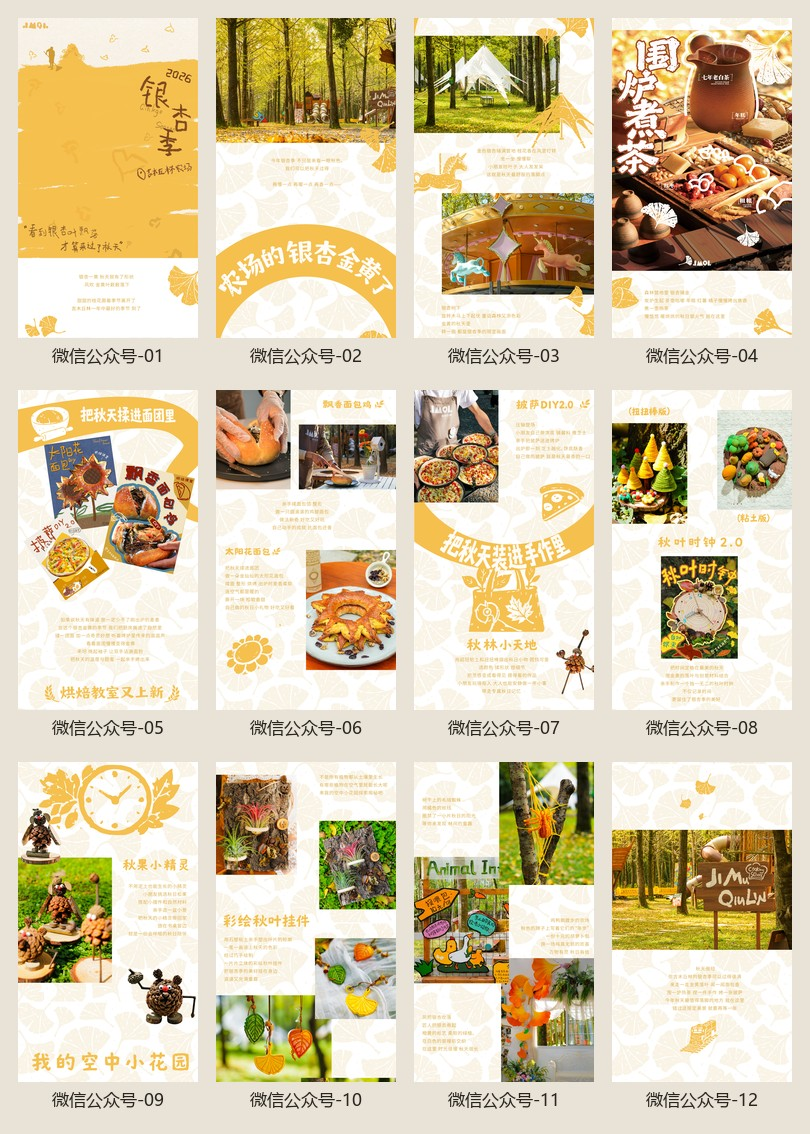
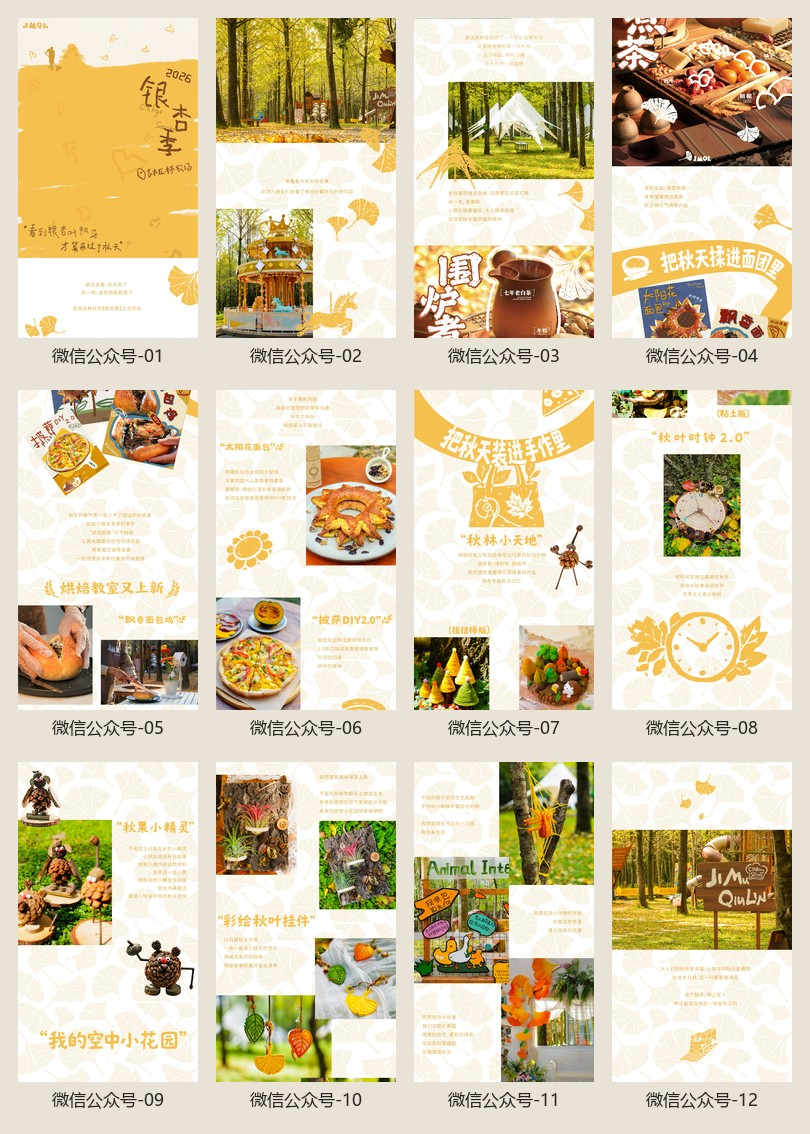
Refresh ginkgo gallery from latest artwork

diff --git a/index.html b/index.html
@@ -34,13 +34,13 @@
   <header>
     <div class="brand"><strong>银杏季 · 公众号版二</strong><span>12 张连续长图 · 建议上下滑动阅读</span></div>
     <div class="actions">
-      <a href="./assets/ginkgo-long-web.jpg?v=20261106-1125" target="_blank" rel="noopener">打开网页版</a>
-      <a href="./assets/ginkgo-long-original.jpg?v=20261106-1125" target="_blank" rel="noopener">下载原图</a>
+      <a href="./assets/ginkgo-long-web.jpg?v=20261106-132152" target="_blank" rel="noopener">打开网页版</a>
+      <a href="./assets/ginkgo-long-original.jpg?v=20261106-132152" target="_blank" rel="noopener">下载原图</a>
     </div>
   </header>
   <main>
-    <div class="stage" id="stage"><img id="longImage" src="./assets/ginkgo-long-web.jpg?v=20261106-1125" alt="银杏季公众号版二连续长图"></div>
-    <p class="tip">共 12 页，已按文件名顺序无缝拼接<br>2,251 × 48,012 px 原图 · 1,080 × 23,040 px 网页版<br>更新于 2026-11-06 11:25</p>
+    <div class="stage" id="stage"><img id="longImage" src="./assets/ginkgo-long-web.jpg?v=20261106-132152" alt="银杏季公众号版二连续长图"></div>
+    <p class="tip">共 12 页，已按文件名顺序无缝拼接<br>2,251 × 48,012 px 原图 · 1,080 × 23,040 px 网页版<br>更新于 2026-11-06 13:21</p>
   </main>
   <div class="zoom" aria-label="缩放控制">
     <button type="button" id="minus" aria-label="缩小">−</button>
